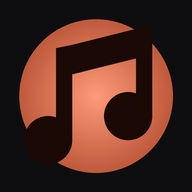
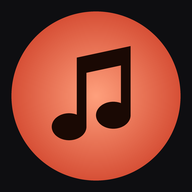
Écho : installation de l'icône sur l'écran d'accueil
Page installer.html (iPhone : profil echo.mobileconfig ; Android : bouton
d'installation ; ordinateur : QR code), nouvelle icône, lien dans l'appli.

Claude-Session: https://claude.ai/code/session_017yLUqgsbNhc4cnnqa4ni8f

diff --git a/echo/installer.html b/echo/installer.html
@@ -1,0 +1,90 @@
+<!DOCTYPE html>
+<html lang="fr">
+<head>
+<meta charset="utf-8">
+<meta name="viewport" content="width=device-width, initial-scale=1, viewport-fit=cover">
+<meta name="theme-color" content="#0e0e11">
+<title>Installer Écho</title>
+<link rel="manifest" href="manifest.webmanifest">
+<link rel="apple-touch-icon" href="apple-touch-icon.png">
+<link rel="icon" href="icon-192.png">
+<link rel="preconnect" href="https://fonts.googleapis.com"><link rel="preconnect" href="https://fonts.gstatic.com" crossorigin><link href="https://fonts.googleapis.com/css2?family=Manrope:wght@500;600;700;800&display=swap" rel="stylesheet">
+<style>
+:root{--bg:#eef2f7;--card:#fff;--ink:#0f1d3a;--mut:#5d6b82;--line:#e3e8f0;--acc:#e2553a;--ok:#15803d;--okbg:#e4f5ea}
+@media (prefers-color-scheme:dark){:root{--bg:#0b111c;--card:#141c2b;--ink:#e9eef7;--mut:#97a3b8;--line:#243047;--acc:#ff8a6e;--ok:#5fd18e;--okbg:#122c1d}}
+*{box-sizing:border-box}
+body{margin:0;font-family:Manrope,system-ui,-apple-system,sans-serif;background:var(--bg);color:var(--ink);line-height:1.5;padding:0 0 calc(30px + env(safe-area-inset-bottom))}
+.hero{background:linear-gradient(135deg,#2a120c,#8a2f1c 55%,#ff6b4a);color:#fff;padding:calc(36px + env(safe-area-inset-top)) 20px 60px;text-align:center;border-radius:0 0 32px 32px}
+.hero img{width:92px;height:92px;border-radius:22px;box-shadow:0 10px 30px rgba(0,0,0,.35)}
+.hero h1{margin:14px 0 2px;font-size:28px;font-weight:800;letter-spacing:-.02em}.hero p{margin:0;opacity:.85}
+main{max-width:520px;margin:-36px auto 0;padding:0 16px}
+.card{background:var(--card);border-radius:20px;padding:18px;box-shadow:0 4px 18px rgba(15,29,58,.08);margin-bottom:14px}
+.big{display:flex;align-items:center;justify-content:center;gap:10px;width:100%;border:0;border-radius:16px;padding:16px;font:inherit;font-size:17px;font-weight:800;color:#fff;background:linear-gradient(135deg,#e2553a,#ff7a52);box-shadow:0 6px 18px rgba(226,85,58,.3);text-decoration:none;cursor:pointer}
+.big.alt{background:var(--card);color:var(--ink);border:1px solid var(--line);box-shadow:none;font-size:15px}
+ol{padding-left:0;list-style:none;counter-reset:s;margin:14px 0 0}
+ol li{counter-increment:s;display:flex;gap:12px;align-items:flex-start;padding:9px 0;border-top:1px solid var(--line)}ol li:first-child{border-top:0}
+ol li::before{content:counter(s);flex:none;width:26px;height:26px;border-radius:50%;background:linear-gradient(135deg,#b8341c,#ff6b4a);color:#fff;font-weight:800;font-size:13px;display:flex;align-items:center;justify-content:center}
+.muted{color:var(--mut);font-size:14px}
+.ok{background:var(--okbg);color:var(--ok);border-radius:14px;padding:12px 14px;font-weight:700}
+.seg{display:flex;background:var(--line);border-radius:12px;padding:3px;margin-bottom:14px}.seg button{flex:1;border:0;background:transparent;font:inherit;font-weight:700;padding:8px;border-radius:10px;color:var(--mut)}.seg button.on{background:var(--card);color:var(--ink)}
+.ico{display:inline-flex;vertical-align:-4px;width:20px;height:20px}
+#qr{display:flex;justify-content:center;margin:12px 0}
+h2{font-size:17px;margin:0 0 4px;font-weight:800}
+</style>
+</head>
+<body>
+<div class="hero"><img src="icon-512.png" alt=""><h1>Écho</h1><p>Ta musique, sans pub</p></div>
+<main>
+<div class="card" id="done" style="display:none"><div class="ok">L'appli est déjà installée sur cet appareil.</div><p class="muted">Ouvre-la depuis l'icône Écho de ton écran d'accueil.</p><a class="big" href="./">Ouvrir Écho</a></div>
+
+<div class="seg" id="seg"><button data-p="ios">iPhone / iPad</button><button data-p="android">Android</button><button data-p="pc">Ordinateur</button></div>
+
+<section data-s="ios">
+ <div class="card"><h2>Installation automatique</h2><p class="muted">Un petit profil ajoute l'icône Écho sur ton écran d'accueil.</p>
+  <a class="big" href="echo.mobileconfig" id="iosBtn">Installer l'icône Écho</a>
+  <ol><li><span>Touche le bouton ci-dessus, puis <b>Autoriser</b> pour télécharger le profil.</span></li>
+  <li><span>Ouvre <b>Réglages</b> : en haut, touche <b>Profil téléchargé</b>.</span></li>
+  <li><span>Touche <b>Installer</b> en haut à droite, saisis ton code, puis <b>Installer</b> encore. iOS indique « non signé » : c'est normal pour un profil personnel.</span></li>
+  <li><span>L'icône <b>Écho</b> apparaît sur l'écran d'accueil. Pour la retirer plus tard : Réglages › Général › VPN et gestion de l'appareil.</span></li></ol>
+  <p class="muted" id="iosWarn" style="display:none">Ouvre cette page dans <b>Safari</b> : le profil ne s'installe pas depuis un autre navigateur ou depuis l'appli Claude.</p></div>
+ <div class="card"><h2>Ou à la main</h2><ol><li><span>Dans <b>Safari</b>, touche <svg class="ico" viewBox="0 0 24 24" fill="none" stroke="currentColor" stroke-width="2" stroke-linecap="round" stroke-linejoin="round"><path d="M12 3v12M8 7l4-4 4 4"/><path d="M6 11v9h12v-9"/></svg> Partager.</span></li><li><span>Fais défiler et choisis <b>Sur l'écran d'accueil</b>.</span></li><li><span>Touche <b>Ajouter</b>.</span></li></ol></div>
+</section>
+
+<section data-s="android">
+ <div class="card"><h2>Installation en un toucher</h2><p class="muted" id="andMsg">Préparation…</p>
+  <button class="big" id="andBtn" style="display:none">Installer Écho</button>
+  <ol><li><span>Si le bouton n'apparaît pas, ouvre cette page dans <b>Chrome</b>.</span></li><li><span>Menu <b>⋮</b> en haut à droite, puis <b>Installer l'application</b> (ou « Ajouter à l'écran d'accueil »).</span></li><li><span>Confirme : l'icône <b>Écho</b> apparaît avec tes applis.</span></li></ol></div>
+</section>
+
+<section data-s="pc">
+ <div class="card"><h2>Installer sur ton téléphone</h2><p class="muted">Scanne ce code avec l'appareil photo du téléphone ou de la tablette, puis suis les étapes affichées.</p><div id="qr"></div>
+  <p class="muted" style="text-align:center;word-break:break-all" id="url"></p>
+  <button class="big alt" id="pcBtn" style="display:none">Installer aussi sur cet ordinateur</button></div>
+</section>
+
+<a class="big alt" href="./">Ouvrir l'appli sans l'installer</a>
+</main>
+<script src="https://cdnjs.cloudflare.com/ajax/libs/qrcodejs/1.0.0/qrcode.min.js"></script>
+<script>
+const $=s=>document.querySelector(s);const ua=navigator.userAgent;
+const isIOS=/iPhone|iPad|iPod/.test(ua)||(navigator.platform==='MacIntel'&&navigator.maxTouchPoints>1);
+const isAnd=/Android/.test(ua);const standalone=matchMedia('(display-mode: standalone)').matches||navigator.standalone;
+const isSafari=isIOS&&!/CriOS|FxiOS|EdgiOS|GSA|Instagram|FBAN|Claude/i.test(ua);
+const appURL=new URL('./',location.href).href;
+function show(p){document.querySelectorAll('[data-s]').forEach(s=>s.style.display=s.dataset.s===p?'':'none');document.querySelectorAll('#seg button').forEach(b=>b.classList.toggle('on',b.dataset.p===p));}
+$('#seg').onclick=e=>{if(e.target.dataset.p)show(e.target.dataset.p);};
+show(isIOS?'ios':isAnd?'android':'pc');
+if(standalone)$('#done').style.display='';
+if(isIOS&&!isSafari)$('#iosWarn').style.display='';
+$('#url').textContent=location.href;
+try{new QRCode($('#qr'),{text:location.href,width:200,height:200,colorDark:'#2a120c',colorLight:'#ffffff'});}catch(e){$('#qr').textContent='';}
+let deferred=null;
+window.addEventListener('beforeinstallprompt',e=>{e.preventDefault();deferred=e;$('#andBtn').style.display='';$('#andMsg').textContent='Touche le bouton pour installer Écho comme une appli.';$('#pcBtn').style.display='';});
+window.addEventListener('appinstalled',()=>{$('#andMsg').textContent='Écho est installée. Tu la trouveras avec tes applis.';$('#andBtn').style.display='none';$('#done').style.display='';});
+async function install(){if(!deferred)return;deferred.prompt();await deferred.userChoice;deferred=null;}
+$('#andBtn').onclick=install;$('#pcBtn').onclick=install;
+setTimeout(()=>{if(!deferred&&isAnd)$('#andMsg').textContent='Ton navigateur ne propose pas l\'installation automatique ici : suis les étapes ci-dessous.';},3500);
+if('serviceWorker' in navigator&&location.protocol==='https:')navigator.serviceWorker.register('sw.js').catch(()=>{});
+</script>
+</body>
+</html>

diff --git a/echo/index.html b/echo/index.html
@@ -10,7 +10,7 @@
 <meta name="apple-mobile-web-app-title" content="Écho">
 <link rel="manifest" href="manifest.webmanifest">
 <link rel="icon" href="icon-192.png">
-<link rel="apple-touch-icon" href="icon-192.png">
+<link rel="apple-touch-icon" href="apple-touch-icon.png">
 <title>Écho – Ma musique</title>
 <style>
 /* VOICE: lecteur de poche nocturne, calme, sans pub
@@ -524,7 +524,7 @@ const greet=()=>{const h=new Date().getHours();return h<5?'Bonne nuit':h<12?'Bon
 function importBtns(){return `<div class="btns"><button class="pbtn" data-act="imp">${IC.plus}Importer des titres</button><button class="gbtn" data-act="impdir">Importer un dossier</button></div>`}
 
 V.home=()=>{
- if(!tracks.length)return `<div class="hero"><div class="logo">${IC.note}</div><h1>Bienvenue sur Écho</h1><p>Ta musique à toi, sans pub et sans abonnement. Importe tes fichiers audio une fois : ils restent sur ton téléphone, même hors connexion. Plus tu écoutes, plus les suggestions te ressemblent.</p>${importBtns()}<div class="btns" style="justify-content:center"><button class="gbtn" data-tab="discover">${IC.disc}Découvrir de la musique libre</button></div></div><div class="tip"><b>Astuce :</b> ouvre ce lien dans Safari ou Chrome puis choisis « Ajouter à l'écran d'accueil » pour avoir Écho comme une vraie appli.</div>`;
+ if(!tracks.length)return `<div class="hero"><div class="logo">${IC.note}</div><h1>Bienvenue sur Écho</h1><p>Ta musique à toi, sans pub et sans abonnement. Importe tes fichiers audio une fois : ils restent sur ton téléphone, même hors connexion. Plus tu écoutes, plus les suggestions te ressemblent.</p>${importBtns()}<div class="btns" style="justify-content:center"><button class="gbtn" data-tab="discover">${IC.disc}Découvrir de la musique libre</button></div></div><div class="tip"><b>Mets Écho sur ton écran d'accueil</b> pour l'ouvrir comme une vraie appli.<div class="btns" style="padding:10px 0 0"><a class="pbtn" href="installer.html" style="text-decoration:none">Installer l'icône</a></div></div>`;
  const P=profile(),hist=tracks.some(t=>t.plays>0),b=bucket(),now=Date.now();
  let h=hdr(greet(),`<button class="ibtn" data-act="settings" aria-label="Réglages">${IC.gear}</button>`);
  h+=section('Pour toi',hist?'Choisi selon tes écoutes':'Écoute quelques titres, Écho apprend tes goûts',topBy(tracks,t=>score(t,P),25));
@@ -762,6 +762,7 @@ async function settings(){
  const s=kv.settings;
  sheet(`<div class="shh"><div class="ri"><div class="rt">Réglages</div><div class="rs">${tracks.length} titres · ${est}</div></div></div>
  <button class="tgl${s.autoplay?' on':''}" data-act="tglauto"><span>Lecture auto des suggestions<br><small style="color:var(--mu)">Continue avec des titres proches quand la file est finie</small></span><i></i></button>`,[
+  {html:`<a class="si" href="installer.html"><span>📲</span>Installer l\u2019icône sur l\u2019écran d\u2019accueil</a>`},
   {ic:'＋',label:'Importer des titres',fn:()=>$('#fin').click()},
   {ic:'📁',label:'Importer un dossier (Android, ordinateur)',fn:()=>$('#din').click()},
   {ic:'🔑',label:s.jamendo?'Modifier la clé Jamendo':'Ajouter une clé Jamendo',fn:async()=>{const r=await form('Clé Jamendo',[{k:'k',label:'Client ID (gratuit sur devportal.jamendo.com)',value:s.jamendo}]);if(r){s.jamendo=r.k;saveKV();render()}}},

diff --git a/echo/sw.js b/echo/sw.js
@@ -1,5 +1,5 @@
-const C='echo-v1';
-const SHELL=['./','index.html','manifest.webmanifest','icon-192.png','icon-512.png'];
+const C='echo-v2';
+const SHELL=['./','index.html','manifest.webmanifest','icon-192.png','icon-512.png','apple-touch-icon.png','installer.html'];
 self.addEventListener('install',e=>{e.waitUntil(caches.open(C).then(c=>c.addAll(SHELL)).then(()=>self.skipWaiting()))});
 self.addEventListener('activate',e=>{e.waitUntil(caches.keys().then(ks=>Promise.all(ks.filter(k=>k!==C).map(k=>caches.delete(k)))).then(()=>self.clients.claim()))});
 self.addEventListener('fetch',e=>{
